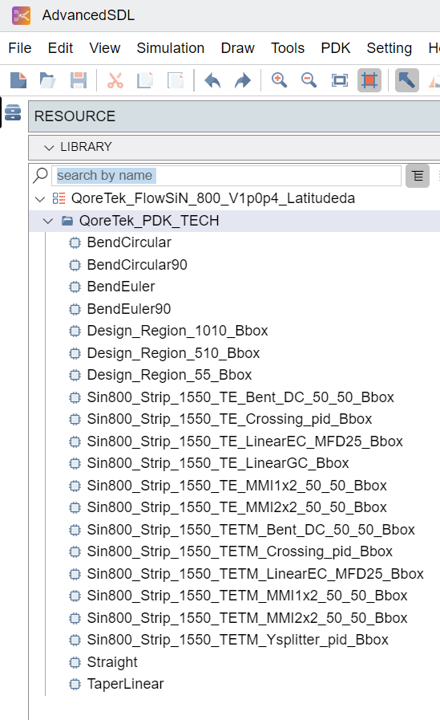
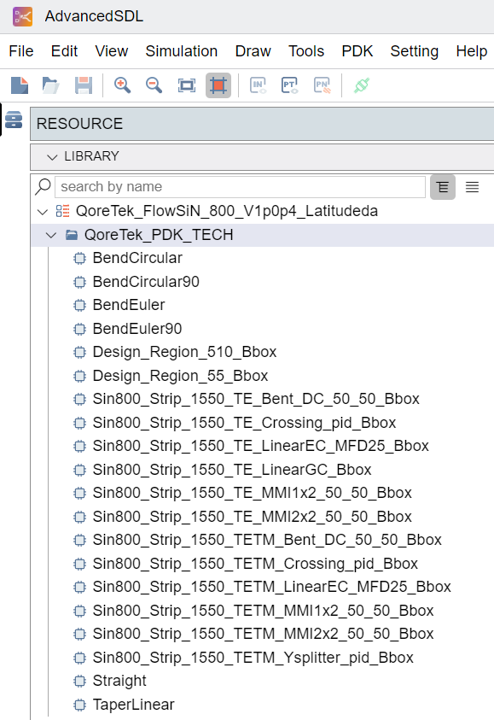
update asdl截图 去除design region10*10

Changed region(s): [[0.0, 0.0, 1.0, 1.0]]

diff --git a/docs/source/intro/install_photocad.rst b/docs/source/intro/install_photocad.rst
@@ -3,6 +3,6 @@ Install PhotoCAD and QoreTek FlowSiN 800 V1p0p4 PDK
 
 Once Python and Pycharm are installed, you can follow the instructions to install **PhotoCAD** via **PIC Studio**. After installation, we will find the completed **fnpcell** and **gpdk** packages in ``Lib>site-packages``. **fnpcell** is the main package of **PhotoCAD**, which is used for parametric layout component scripts and layout routing scripts. **gpdk** is a collection of all examples in **PhotoCAD**. It contains both component cell layout scripts and other design templates based on parametric component cells.
 
-To install **QoreTek FlowSiN 800 V1p0p4 PDK** package to **PhotoCAD**, extract ``QoreTek_FlowSiN_800_V1p0p4_Latitudeda_Customer.zip`` to the project folder.
+To install **QoreTek FlowSiN 800 V1p0p4 PDK** package to **PhotoCAD**, extract ``QoreTek_FlowSiN_800_V1p0p4_Latitudeda.zip`` to the project folder.
 
 .. image:: ../images/install.png

diff --git a/docs/source/quick_start/PhotoCAD.rst b/docs/source/quick_start/PhotoCAD.rst
@@ -55,7 +55,7 @@ Import QoreTek FlowSiN 800 PDK into PhotoCAD
 
 First, make sure that the **QoreTek FlowSiN 800 PDK** version matches the version of **PhotoCAD**. The version of **PhotoCAD** can be obtained in ``Run`` by running scripts in **PhotoCAD**.
 
-Extract the ``QoreTek_FlowSiN_800_V1p0p4_Latitudeda_Customer`` zip archive and copy it to the workspace folder. As shown in the figure below, the ``QoreTek_FlowSiN_800_V1p0p4_Latitudeda`` folder is in the demo folder and parallel to .venv_demo_QoreTek_FlowSiN800.
+Extract the ``QoreTek_FlowSiN_800_V1p0p4_Latitudeda`` zip archive and copy it to the workspace folder. As shown in the figure below, the ``QoreTek_FlowSiN_800_V1p0p4_Latitudeda`` folder is in the demo folder and parallel to .venv_demo_QoreTek_FlowSiN800.
 
 .. image:: ../images/PhotoCAD_6.png
 

diff --git a/docs/source/component_list/bb_Design_Region.rst b/docs/source/component_list/bb_Design_Region.rst
@@ -9,6 +9,3 @@ Design_Region_510_Bbox
 **********************************************************
 .. image:: ../images/Design_Region_510_Bbox.png
 
-Design_Region_55_Bbox
-**********************************************************
-.. image:: ../images/Design_Region_1010_Bbox.png
